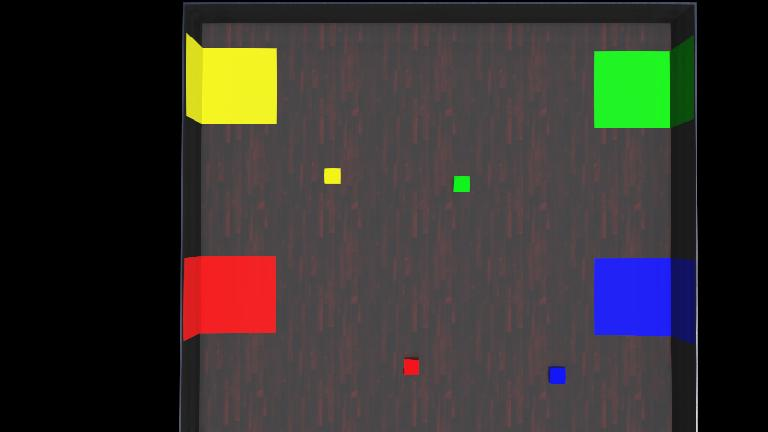
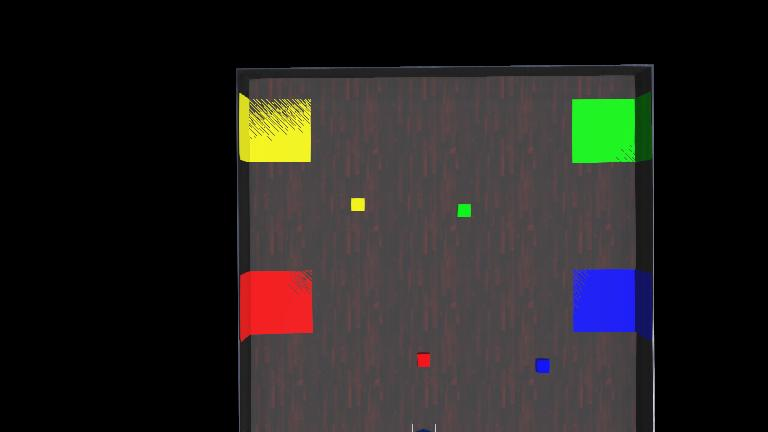
Enhance motor control and camera integration for improved obstacle avoidance and color detection

diff --git a/controllers/motor_control/motor_control.py b/controllers/motor_control/motor_control.py
@@ -1,5 +1,13 @@
+
+"""Movements of the robot"""
+# mc.move_forward()
+# mc.move_backward()
+# mc.turn_right()
+# mc.turn_left()
+# mc.stop()
+
 from motor import MotorController
-from controller import Robot, RangeFinder, Display
+from controller import Robot, RangeFinder, Display, Camera
 import numpy as np
 import cv2
 import time
@@ -16,14 +24,23 @@ timestep = int(robot.getBasicTimeStep())
 range_finder = robot.getDevice('range-finder')
 range_finder.enable(timestep)
 
-# Get display
-display = robot.getDevice('display')
+# Get display1
+display1 = robot.getDevice('display1')
 
-# Get properties
-width = range_finder.getWidth()
-height = range_finder.getHeight()
+# Get display2
+display2 = robot.getDevice('display2')
+
+# Get properties of the range finder
+range_width = range_finder.getWidth()
+range_height = range_finder.getHeight()
 min_range = range_finder.getMinRange()
 max_range = range_finder.getMaxRange()
+
+# Get properties of the camera
+camera = robot.getDevice('camera')
+camera.enable(timestep)
+cam_width = camera.getWidth()
+cam_height = camera.getHeight()
 
 def wait(robot, duration_sec):
     start_time = robot.getTime()
@@ -38,6 +55,8 @@ def is_corner(left_vals, right_vals, threshold=0.4, diff_margin=0.15):
 
 
 while robot.step(timestep) != -1:
+    
+    # Process the range finder data navigates the robo around the maze by avoiding obstacles
     # Get range image as 2D float array
     depth_image = np.array(range_finder.getRangeImageArray())
 
@@ -53,12 +72,12 @@ while robot.step(timestep) != -1:
 
     # Convert to bytes and show on display
     image_bytes = rgba.tobytes()
-    ir = display.imageNew(image_bytes, Display.BGRA, width, height)
-    display.imagePaste(ir, 0, 0, False)
-    display.imageDelete(ir)
+    ir = display1.imageNew(image_bytes, Display.BGRA, range_width, range_height)
+    display1.imagePaste(ir, 0, 0, False)
+    display1.imageDelete(ir)
     
-    right_distances = depth_image[height//2][width//2:] 
-    left_distances = depth_image[height//2][0:width//2]
+    right_distances = depth_image[range_height//2][range_width//2:] 
+    left_distances = depth_image[range_height//2][0:range_width//2]
     
     if is_corner(left_distances, right_distances):
         print("Corner detected — backing up")
@@ -85,13 +104,58 @@ while robot.step(timestep) != -1:
             mc.stop()
     else:
         mc.move_forward()
+        
+    # Process the camera data and show bounding boxes in the display
+    # Get camera image
+    cam_data = camera.getImage()
     
-    """Movements of the robot"""
-    # mc.move_forward()
-    # mc.move_backward()
-    # mc.turn_right()
-    # mc.turn_left()
-    # mc.stop()
+    if cam_data:
+        # Convert raw image to NumPy RGBA
+        cam_image = np.frombuffer(cam_data, np.uint8).reshape((cam_height, cam_width, 4))  # RGBA
+        cam_image_bgr = cv2.cvtColor(cam_image, cv2.COLOR_RGBA2BGR)  # Original camera feed
+        cam_image_hsv = cv2.cvtColor(cam_image_bgr, cv2.COLOR_BGR2HSV)
+
+        # Define HSV ranges for red, green, blue, and yellow
+        lower_red = np.array([0, 200, 200])
+        upper_red = np.array([10, 255, 255])
+        
+        lower_green = np.array([40, 70, 70])
+        upper_green = np.array([80, 255, 255])
+        
+        lower_blue = np.array([100, 200, 200])
+        upper_blue = np.array([255, 255, 255])
+        
+        lower_yellow = np.array([20, 150, 150])
+        upper_yellow = np.array([100, 255, 255])
+
+        # Create color masks
+        color_masks = {
+            "Blue": cv2.inRange(cam_image_hsv, lower_red, upper_red),
+            "Green": cv2.inRange(cam_image_hsv, lower_green, upper_green),
+            "Red": cv2.inRange(cam_image_hsv, lower_blue, upper_blue),
+            "Yellow": cv2.inRange(cam_image_hsv, lower_yellow, upper_yellow)
+        }
+
+        # Draw bounding boxes on original image
+        for color_name, mask in color_masks.items():
+            contours, _ = cv2.findContours(mask, cv2.RETR_EXTERNAL, cv2.CHAIN_APPROX_SIMPLE)
+            for cnt in contours:
+                area = cv2.contourArea(cnt)
+                if area > 30:
+                    x, y, w, h = cv2.boundingRect(cnt)
+                    cv2.rectangle(cam_image_bgr, (x, y), (x + w, y + h), (0, 255, 255), 2)
+                    cv2.putText(cam_image_bgr, color_name, (x, y - 10), cv2.FONT_HERSHEY_SIMPLEX,
+                                0.6, (0, 255, 255), 2)
+
+        # Convert annotated image back to RGBA for Webots Display
+        cam_annotated_rgba = cv2.cvtColor(cam_image_bgr, cv2.COLOR_BGR2RGBA)
+        cam_image_bytes = cam_annotated_rgba.tobytes()
+
+        # ✅ Display logic remains unchanged
+        cam_ir = display2.imageNew(cam_image_bytes, Display.BGRA, cam_width, cam_height)
+        display2.imagePaste(cam_ir, 0, 0, False)
+        display2.imageDelete(cam_ir)
+
     pass
 
 
